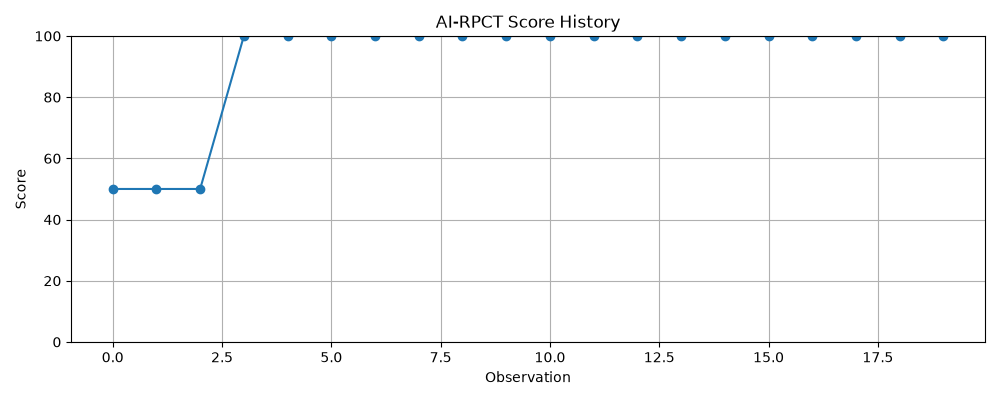
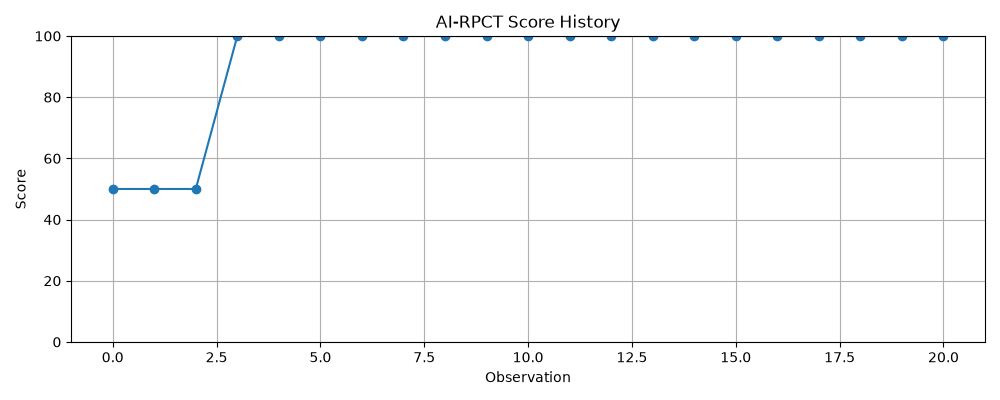
AI-RPCT v42.4 beta readiness pipeline

diff --git a/dashboard.html b/dashboard.html
@@ -29,7 +29,7 @@ th { color:#9ca3af; }
       <div class="drivers">Trend: STABLE</div>
       <div class="drivers">Drivers: NVDA above 200, BTC above 60k, AKT above 0.75, H100 price above $2/hr, A100 price above $1/hr, H100 availability constrained, A100 availability constrained</div>
       <br>
-      <div>Last update: 2026-06-17 09:24:36</div>
+      <div>Last update: 2026-06-17 09:26:15</div>
     </div>
     
     <div class="card">
@@ -69,7 +69,7 @@ th { color:#9ca3af; }
 <h2>Market Snapshot</h2>
 <table>
 <tr><th>Asset</th><th>Ticker</th><th>Price</th><th>Timestamp</th></tr>
-<tr><td>AKT</td><td>AKT-USD</td><td>$0.8800</td><td>2026-06-17 09:24:36</td></tr><tr><td>BTC</td><td>BTC-USD</td><td>$65446.8086</td><td>2026-06-17 09:24:35</td></tr><tr><td>ETH</td><td>ETH-USD</td><td>$1784.3600</td><td>2026-06-17 09:24:35</td></tr><tr><td>NVDA</td><td>NVDA</td><td>$207.4100</td><td>2026-06-17 09:24:34</td></tr>
+<tr><td>AKT</td><td>AKT-USD</td><td>$0.8800</td><td>2026-06-17 09:26:14</td></tr><tr><td>BTC</td><td>BTC-USD</td><td>$65456.5000</td><td>2026-06-17 09:26:13</td></tr><tr><td>ETH</td><td>ETH-USD</td><td>$1782.6200</td><td>2026-06-17 09:26:14</td></tr><tr><td>NVDA</td><td>NVDA</td><td>$207.4100</td><td>2026-06-17 09:26:13</td></tr>
 </table>
 
 <h2>GPU Market Snapshot</h2>
@@ -81,7 +81,7 @@ th { color:#9ca3af; }
 <h2>Last 10 RPCT Scores</h2>
 <table>
 <tr><th>Timestamp</th><th>Score</th><th>Regime</th><th>Drivers</th></tr>
-<tr><td>2026-06-16 17:02:08</td><td>100</td><td>Critical</td><td>NVDA above 200, BTC above 60k, AKT above 0.75, H100 price above $2/hr, A100 price above $1/hr, H100 availability constrained, A100 availability constrained</td></tr><tr><td>2026-06-16 19:39:22</td><td>100</td><td>Critical</td><td>NVDA above 200, BTC above 60k, AKT above 0.75, H100 price above $2/hr, A100 price above $1/hr, H100 availability constrained, A100 availability constrained</td></tr><tr><td>2026-06-16 19:51:29</td><td>100</td><td>Critical</td><td>NVDA above 200, BTC above 60k, AKT above 0.75, H100 price above $2/hr, A100 price above $1/hr, H100 availability constrained, A100 availability constrained</td></tr><tr><td>2026-06-16 20:16:03</td><td>100</td><td>Critical</td><td>NVDA above 200, BTC above 60k, AKT above 0.75, H100 price above $2/hr, A100 price above $1/hr, H100 availability constrained, A100 availability constrained</td></tr><tr><td>2026-06-17 09:08:00</td><td>100</td><td>Critical</td><td>NVDA above 200, BTC above 60k, AKT above 0.75, H100 price above $2/hr, A100 price above $1/hr, H100 availability constrained, A100 availability constrained</td></tr><tr><td>2026-06-17 09:12:27</td><td>100</td><td>Critical</td><td>NVDA above 200, BTC above 60k, AKT above 0.75, H100 price above $2/hr, A100 price above $1/hr, H100 availability constrained, A100 availability constrained</td></tr><tr><td>2026-06-17 09:13:13</td><td>100</td><td>Critical</td><td>NVDA above 200, BTC above 60k, AKT above 0.75, H100 price above $2/hr, A100 price above $1/hr, H100 availability constrained, A100 availability constrained</td></tr><tr><td>2026-06-17 09:15:01</td><td>100</td><td>Critical</td><td>NVDA above 200, BTC above 60k, AKT above 0.75, H100 price above $2/hr, A100 price above $1/hr, H100 availability constrained, A100 availability constrained</td></tr><tr><td>2026-06-17 09:17:25</td><td>100</td><td>Critical</td><td>NVDA above 200, BTC above 60k, AKT above 0.75, H100 price above $2/hr, A100 price above $1/hr, H100 availability constrained, A100 availability constrained</td></tr><tr><td>2026-06-17 09:24:36</td><td>100</td><td>Critical</td><td>NVDA above 200, BTC above 60k, AKT above 0.75, H100 price above $2/hr, A100 price above $1/hr, H100 availability constrained, A100 availability constrained</td></tr>
+<tr><td>2026-06-16 19:39:22</td><td>100</td><td>Critical</td><td>NVDA above 200, BTC above 60k, AKT above 0.75, H100 price above $2/hr, A100 price above $1/hr, H100 availability constrained, A100 availability constrained</td></tr><tr><td>2026-06-16 19:51:29</td><td>100</td><td>Critical</td><td>NVDA above 200, BTC above 60k, AKT above 0.75, H100 price above $2/hr, A100 price above $1/hr, H100 availability constrained, A100 availability constrained</td></tr><tr><td>2026-06-16 20:16:03</td><td>100</td><td>Critical</td><td>NVDA above 200, BTC above 60k, AKT above 0.75, H100 price above $2/hr, A100 price above $1/hr, H100 availability constrained, A100 availability constrained</td></tr><tr><td>2026-06-17 09:08:00</td><td>100</td><td>Critical</td><td>NVDA above 200, BTC above 60k, AKT above 0.75, H100 price above $2/hr, A100 price above $1/hr, H100 availability constrained, A100 availability constrained</td></tr><tr><td>2026-06-17 09:12:27</td><td>100</td><td>Critical</td><td>NVDA above 200, BTC above 60k, AKT above 0.75, H100 price above $2/hr, A100 price above $1/hr, H100 availability constrained, A100 availability constrained</td></tr><tr><td>2026-06-17 09:13:13</td><td>100</td><td>Critical</td><td>NVDA above 200, BTC above 60k, AKT above 0.75, H100 price above $2/hr, A100 price above $1/hr, H100 availability constrained, A100 availability constrained</td></tr><tr><td>2026-06-17 09:15:01</td><td>100</td><td>Critical</td><td>NVDA above 200, BTC above 60k, AKT above 0.75, H100 price above $2/hr, A100 price above $1/hr, H100 availability constrained, A100 availability constrained</td></tr><tr><td>2026-06-17 09:17:25</td><td>100</td><td>Critical</td><td>NVDA above 200, BTC above 60k, AKT above 0.75, H100 price above $2/hr, A100 price above $1/hr, H100 availability constrained, A100 availability constrained</td></tr><tr><td>2026-06-17 09:24:36</td><td>100</td><td>Critical</td><td>NVDA above 200, BTC above 60k, AKT above 0.75, H100 price above $2/hr, A100 price above $1/hr, H100 availability constrained, A100 availability constrained</td></tr><tr><td>2026-06-17 09:26:15</td><td>100</td><td>Critical</td><td>NVDA above 200, BTC above 60k, AKT above 0.75, H100 price above $2/hr, A100 price above $1/hr, H100 availability constrained, A100 availability constrained</td></tr>
 </table>
 </body>
 </html>

diff --git a/reports/research_snapshot_20260617.md b/reports/research_snapshot_20260617.md
@@ -1,6 +1,6 @@
 # AI-RPCT Research Snapshot
 
-Generated: 2026-06-17 09:24:42.244574
+Generated: 2026-06-17 09:26:20.951265
 
 ## Current Infrastructure Risk
 